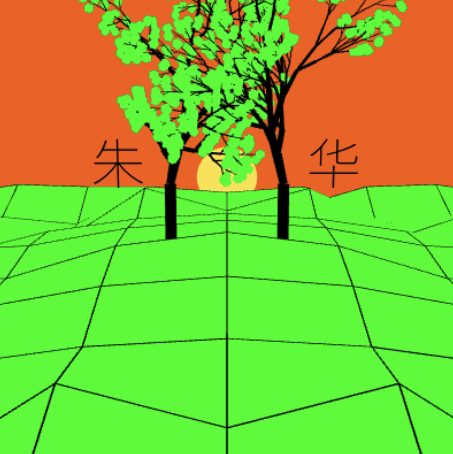
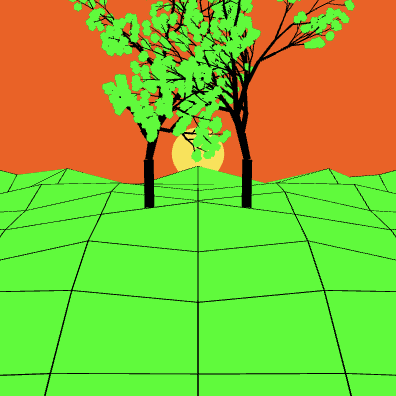
.

diff --git a/sketches/two-trees/index.html b/sketches/two-trees/index.html
@@ -29,7 +29,12 @@
         </div>
         <div class="center_bar" id="main">
 <div id="p5" class="fullwidthbox"></div>
-<p>3-dimensional L-system with phototropism. I learned about this algorithm from <a href="https://algorithmicbotany.org/papers/#abop">The Algorithmic Beauty of Plants</a>, which is awesome and historical. L-systems, combined with the invention of <a href="https://dl.acm.org/doi/10.1145/325165.325250">particle systems</a>, led to the creation of the forest scene from <i>The Adventures of André & Wally B</i>, a landmark in computer graphics!
+<p>3-dimensional L-system with phototropism. I learned about this algorithm from <a href="https://algorithmicbotany.org/papers/#abop">The Algorithmic Beauty of Plants</a>, which is awesome and historical. L-systems, combined with the invention of <a href="https://dl.acm.org/doi/10.1145/325165.325250">particle systems</a> at Pixar, led to the creation of the forest scene from <i>The Adventures of André & Wally B</i> in 1984.</p>
+
+<p><img src="particle_systems.png" style="width: 100%"></p>
+
+<p>It was a <a href="https://en.wikipedia.org/wiki/The_Adventures_of_Andr%C3%A9_%26_Wally_B.">landmark</a> in computer graphics, I think, because it was the first 3D rendering which felt like a <i>world</i>. I still think it's very beautiful, even by today's standards, and it would be cool to recreate it one day.</p>
+
 <p><a href="sketch.js">source</a></p>
 
 

diff --git a/sketches/two-trees/body.html b/sketches/two-trees/body.html
@@ -1,4 +1,9 @@
 <div id="p5" class="fullwidthbox"></div>
-<p>3-dimensional L-system with phototropism. I learned about this algorithm from <a href="https://algorithmicbotany.org/papers/#abop">The Algorithmic Beauty of Plants</a>, which is awesome and historical. L-systems, combined with the invention of <a href="https://dl.acm.org/doi/10.1145/325165.325250">particle systems</a>, led to the creation of the forest scene from <i>The Adventures of André & Wally B</i>, a landmark in computer graphics!
+<p>3-dimensional L-system with phototropism. I learned about this algorithm from <a href="https://algorithmicbotany.org/papers/#abop">The Algorithmic Beauty of Plants</a>, which is awesome and historical. L-systems, combined with the invention of <a href="https://dl.acm.org/doi/10.1145/325165.325250">particle systems</a> at Pixar, led to the creation of the forest scene from <i>The Adventures of André & Wally B</i> in 1984.</p>
+
+<p><img src="particle_systems.png" style="width: 100%"></p>
+
+<p>It was a <a href="https://en.wikipedia.org/wiki/The_Adventures_of_Andr%C3%A9_%26_Wally_B.">landmark</a> in computer graphics, I think, because it was the first 3D rendering which felt like a <i>world</i>. I still think it's very beautiful, even by today's standards, and it would be cool to recreate it one day.</p>
+
 <p><a href="sketch.js">source</a></p>
 

diff --git a/sketches/two-trees/sketch.js b/sketches/two-trees/sketch.js
@@ -114,8 +114,8 @@ function draw() {
     textFont(font);
     textSize(48);
     textStyle(BOLD);
-    text("朱", -120, -50);
-    text("华", +70, -50);
+    // text("朱", -120, -50);
+    // text("华", +70, -50);
     pop();
     push();
     noStroke();
